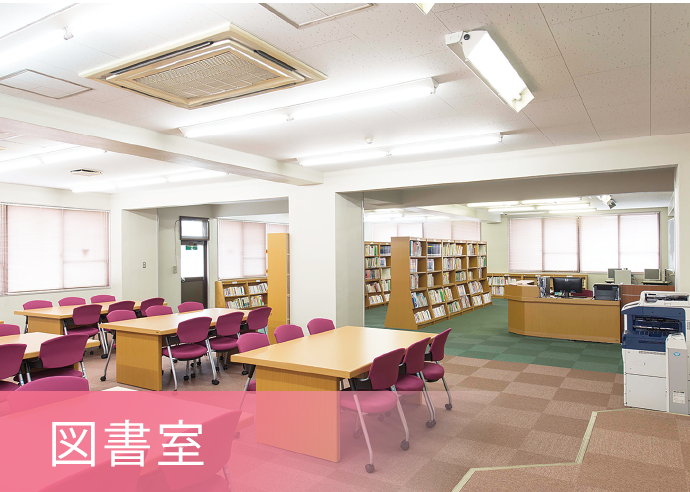
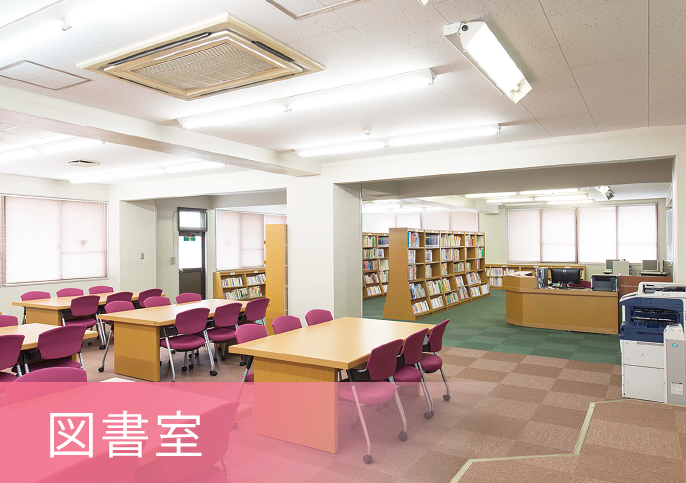
first commit

diff --git a/index.html b/index.html
@@ -265,23 +265,28 @@
 				<div class="lpcontent__content-contens only-desktop">
 					<p><img src="./image/facility1.png"></p>
 					<div class="lpcontent__content-contens-2">
-						<img src="./image/facility2.png">
-						<img src="./image/facility3.png">
-						<img src="./image/facility4.png">
+						<p><img src="./image/facility0-1.png"></p>
+						<p><img src="./image/facility0-3.png"></p>
+						<p><img src="./image/facility0-4.png"></p>
+					</div>
+					<div class="lpcontent__content-contens-2">
+						<p><img src="./image/facility2.png"></p>
+						<p><img src="./image/facility3.png"></p>
+						<p><img src="./image/facility4.png"></p>
 					</div>
 					<div class="lpcontent__content-contens-3">
 						<div class="lpcontent__content-contens-3-left">
 							<div class="lpcontent__content-contens-4">
-								<img src="./image/facility5.png">
-								<img src="./image/facility6.png">
+								<p><img src="./image/facility0-5.png"></p>
+								<p><img src="./image/facility6.png"></p>
 							</div>
 							<div class="lpcontent__content-contens-5">
-								<img src="./image/facility7.png">
-								<img src="./image/facility8.png">
+								<p><img src="./image/facility7.png"></p>
+								<p><img src="./image/facility0-2.png"></p>
 							</div>
 						</div>
 						<div class="lpcontent__content-contens-3-right">
-								<img src="./image/facility9.png">
+								<p><img src="./image/facility9.png"></p>
 						</div>
 					</div>
 				</div>
@@ -291,13 +296,16 @@
 					<div class="swiper-wrapper">
 						<!-- Slides -->
 						<div class="swiper-slide"><img src="./image/facility1-sp.png"></div>
+						<div class="swiper-slide"><img src="./image/facility0-1.png"></div>
+						<div class="swiper-slide"><img src="./image/facility0-3.png"></div>
+						<div class="swiper-slide"><img src="./image/facility0-4.png"></div>
 						<div class="swiper-slide"><img src="./image/facility2.png"></div>
 						<div class="swiper-slide"><img src="./image/facility3.png"></div>
 						<div class="swiper-slide"><img src="./image/facility4.png"></div>
-						<div class="swiper-slide"><img src="./image/facility5.png"></div>
+						<div class="swiper-slide"><img src="./image/facility0-5.png"></div>
 						<div class="swiper-slide"><img src="./image/facility6.png"></div>
 						<div class="swiper-slide"><img src="./image/facility7.png"></div>
-						<div class="swiper-slide"><img src="./image/facility8.png"></div>
+						<div class="swiper-slide"><img src="./image/facility0-2.png"></div>
 					</div>
 					<!-- If we need pagination -->
 					<div class="swiper-pagination"></div>

diff --git a/style.css b/style.css
@@ -490,8 +490,11 @@ li.menu__single:hover ul.menu__second-level {
     align-items: flex-start;
     justify-content: space-between;
 }
-.lpcontent__content-contens-2 > img{
-    width: 350px;
+.lpcontent__content-contens-2 > p{
+    width: 33%;
+}
+.lpcontent__content-contens-2 > p > img{
+    width: 100%;
 }
 .lpcontent__content-contens-3{
     display: flex;
@@ -499,19 +502,37 @@ li.menu__single:hover ul.menu__second-level {
     align-items: flex-start;
     justify-content: space-between;
 }
+.lpcontent__content-contens-4{
+    display: flex;
+    flex-wrap: wrap;
+    align-items: flex-start;
+}
+.lpcontent__content-contens-5{
+    display: flex;
+    flex-wrap: wrap;
+    align-items: flex-start;
+}
 .lpcontent__content-contens-3-left{
     width: 70%;
 }
 .lpcontent__content-contens-3-right{
     width: 30%;
 }
-.lpcontent__content-contens-4 > img{
-    width: 350px;
+.lpcontent__content-contens-4 > p{
+    width: 47%;
+    margin-right: 6px;
 }
-.lpcontent__content-contens-5 > img{
-    width: 350px;
+.lpcontent__content-contens-4 > p > img{
+    width: 100%;
 }
-.lpcontent__content-contens-3-right > img{
+.lpcontent__content-contens-5 > p{
+    width: 47%;
+    margin-right: 6px;
+}
+.lpcontent__content-contens-5 > p > img{
+    width: 100%;
+}
+.lpcontent__content-contens-3-right > p > img{
     width: 135%;
 }
 .lpcontent__content-contens-money-title{
